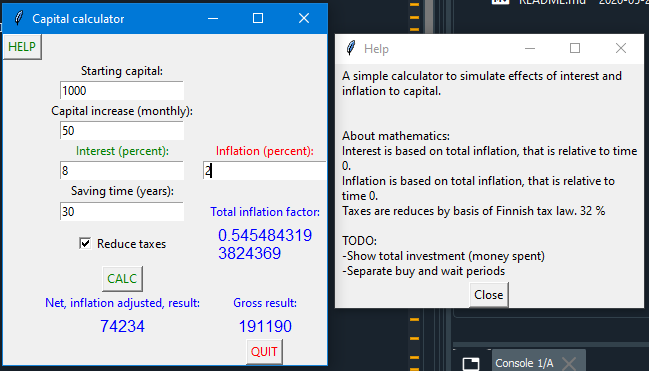
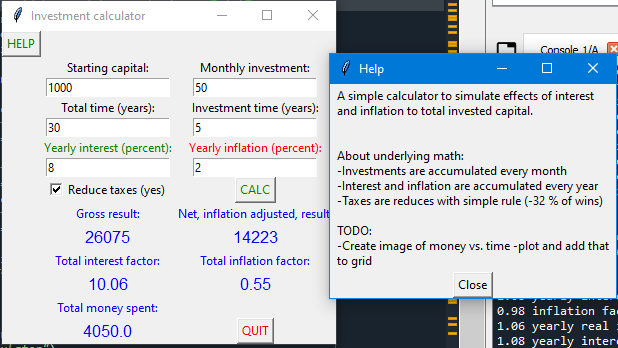
Fixed interest accumulation bug

diff --git a/Interest.py b/Interest.py
@@ -6,11 +6,13 @@ class Interest:
     def __init__(self, startingCapital, capitalIncrease, interest, inflation,
                  totalYears, investmentYears, reduceTaxes):
         try:
-            self.scg = startingCapital  # gross = only interest
-            self.scn = startingCapital  # net = also inflation adjusted
-            self.ci = capitalIncrease
-            self.i = (interest/100.0)+1
-            print(repr(self.i)+' yearly interest factor')
+            self.scs = startingCapital  # keep track of invested money
+            self.scg = []  # gross = only interest
+            self.scg.append(startingCapital)
+            self.months = []
+            self.ci = capitalIncrease  # monthly
+            self.intr = (interest/100.0)+1
+            print(repr(self.intr)+' yearly interest factor')
             self.intTot = 1  # total interest factor
             self.inf = 1-(inflation/100.0)
             print(repr(self.inf) + ' inflation factor')
@@ -19,33 +21,38 @@ class Interest:
             print(repr(self.real)+' yearly real interest factor')
             self.total = totalYears*12  # month is base 'unit' time period
             self.active = investmentYears*12
-            self.month = 1
-            self.counter = 0
+            # self.month = 1
+            # self.counter = 0
             self.rd = reduceTaxes
 
         except TypeError:
             print("Insert numbers only")
 
+        month = 1
+        counter = 0
         try:
-            for self.counter in range(self.total):
-                # Accumulate total investment sum every month if active
-                if self.counter <= self.active:
-                    self.scg = self.scg+self.ci
+            for counter in range(self.total):
+                self.months.append(counter)
+                # Accumulate total investment sum every month if still active
+                if counter <= self.active:
+                    self.scs = self.scs+self.ci
+                    self.scg.append(self.ci)
                 # December -> add yearly interest
-                if self.month == 12:
-                    self.month = 1
+                if month == 12:
+                    month = 1
                     # Accumulate interest and inflation factors once a year
-                    self.intTot = self.intTot*self.i
+                    self.intTot = self.intTot*self.intr
                     self.infTot = self.infTot*self.inf
+                    for i in range(0, len(self.scg), 1):
+                        self.scg[i] = self.scg[i]*self.intr
                 else:  # middle of year
-                    self.month = self.month+1
+                    month = month+1
 
-            # Calculate gross and net total(final) investment
-            self.scs = self.scg
-            self.scg = self.scg*self.intTot
-            if self.rd == 1:
-                self.scg = self.scs + 0.68 * (self.scg-self.scs)
-            self.scn = self.scg*self.infTot
+            # Calculate net total(final) investment
+            self.scgs = sum(self.scg)
+            if self.rd == 1:  # reduce taxes
+                self.scgs = self.scs + 0.68 * (self.scgs-self.scs)
+            self.scn = self.scgs*self.infTot  # calculate inflation
         except Exception as e:
             print("Calculations failed, exception:")
             print(e)

diff --git a/InterestGUI.py b/InterestGUI.py
@@ -1,5 +1,9 @@
 from tkinter import *
 from Interest import Interest
+import matplotlib
+matplotlib.use("TkAgg")
+from matplotlib.backends.backend_tkagg import FigureCanvasTkAgg
+from matplotlib.figure import Figure
 
 
 class InterestGUI:
@@ -7,6 +11,9 @@ class InterestGUI:
 
         frame = Frame(master)  # main frame
         frame.grid()
+        
+        self.months = []
+        self.money = []
 
         self.exit = Button(frame, text="QUIT", fg="red", command=frame.quit)
         self.exit.grid(row=13, column=2)
@@ -119,26 +126,29 @@ class InterestGUI:
         return text
 
     """This method creates an instance of Interest class,
-    and sets the value of result-message according to final amount of money"""
+    and sets the values result according to calculations"""
 
     def calculate(self):
         try:
-            self.money = Interest(int(self.sc.get()), int(self.ci.get()),
+            self.result = Interest(int(self.sc.get()), int(self.ci.get()),
                                   int(self.int.get()), int(self.inf.get()),
                                   int(self.ty.get()), int(self.iy.get()),
                                   int(self.variable.get()))  # Interest object
-            self.resultNet.config(text=int(self.money.scn),
+            # Months and money could be used to create image (plot)
+            self.months = self.result.months
+            self.money = self.result.scg
+            self.resultNet.config(text=int(self.result.scn),
                                            fg="blue", font=10)  # set net result
-            self.resultGross.config(text=int(self.money.scg),
+            self.resultGross.config(text=int(self.result.scgs),
                                              fg="blue", font=10)  # set gross result
             self.interestTotal.config(
-                text=round(float(self.money.intTot), 2),
+                text=round(float(self.result.intTot), 2),
                 fg="blue", font=10)  # set total int           
             self.inflationTotal.config(
-                text=round(float(self.money.infTot), 2),
+                text=round(float(self.result.infTot), 2),
                 fg="blue", font=10)  # set total inf
             self.investmentSum.config(
-                text=round(float(self.money.scs), 2),
+                text=round(float(self.result.scs), 2),
                 fg="blue", font=10)  # set total sum
         except ValueError:
             self.resultNet.config(
